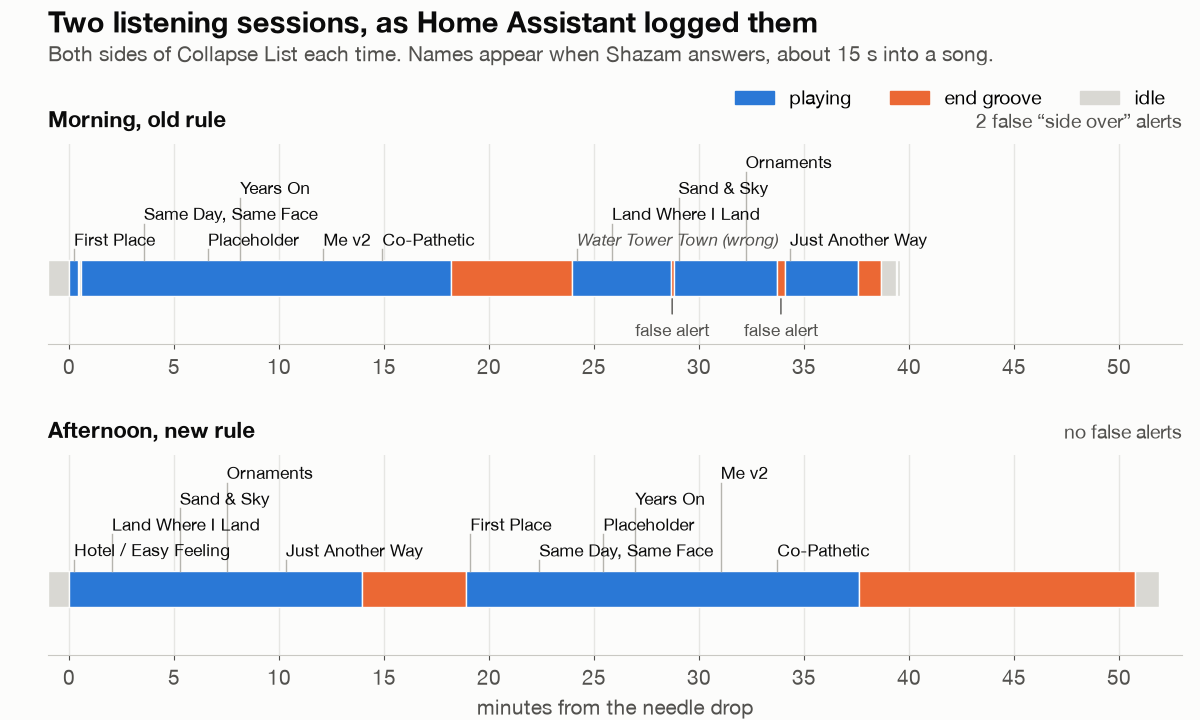
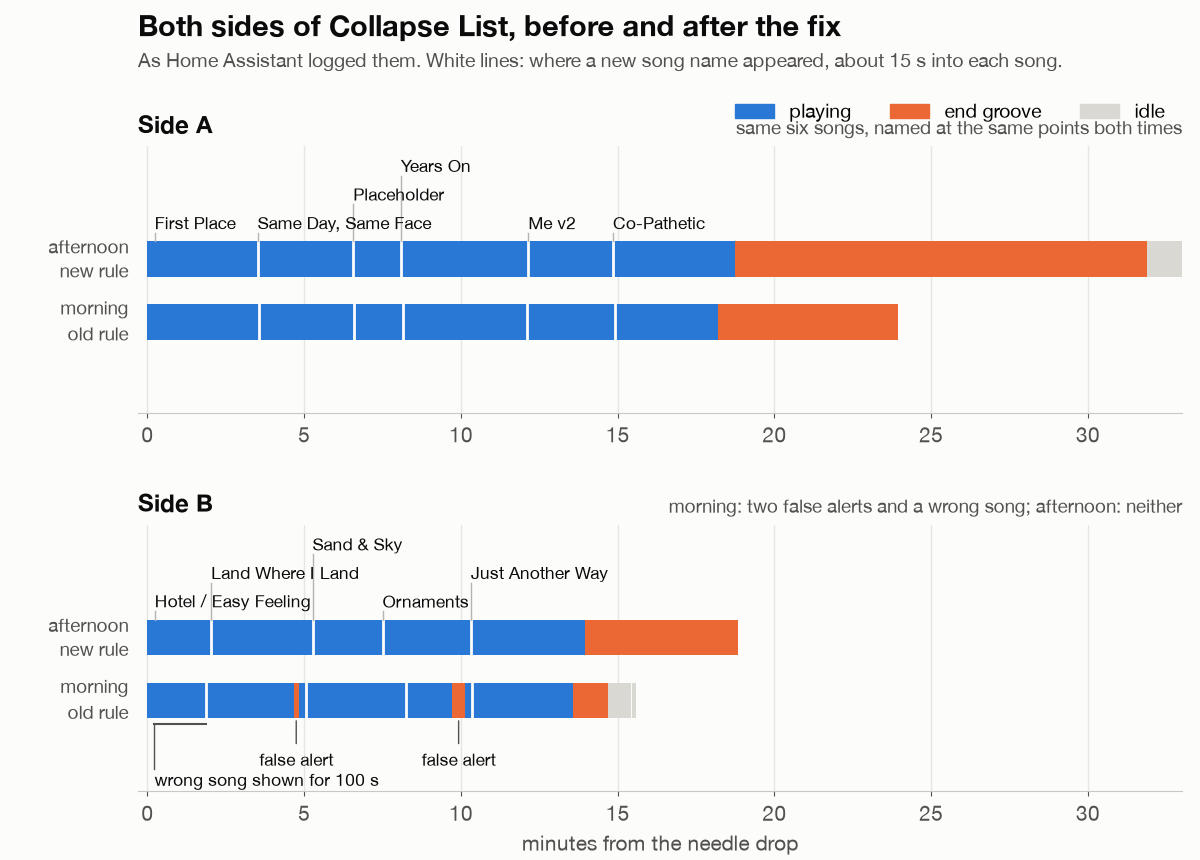
Turntable post: plainer groove-test section and figure, sides lined up in the timeline, the trade-off in my words

diff --git a/content/posts/spare-pi-listens-to-my-turntable/index.md b/content/posts/spare-pi-listens-to-my-turntable/index.md
@@ -56,13 +56,13 @@ Loudness gets you most of the way. Here's what the deck reads at the Pi, as RMS 
 | The end groove | -37 to -58 |
 | Arm up | -85 to -94 |
 
-Music against arm up is easy. A quiet passage against the end groove isn't: they overlap. The end groove does have two tells, and both come from the platter. One revolution at 33⅓ rpm takes 60 / 33.33 = 1.8 seconds (1.333 at 45). The groove usually clicks once per revolution, and its audio repeats almost exactly, because the stylus keeps going around the same circle. Claude turned each tell into a test. Neither one is an FFT: the platter only has two speeds, so it's enough to try shifts near those two periods and see which one lines up.
+Music against arm up is easy. A quiet passage against the end groove isn't: they overlap. The end groove does have two tells, both tied to the platter. At 33⅓ rpm one revolution takes 1.8 seconds (1.333 at 45). The groove usually clicks once per revolution, and its audio repeats almost exactly, because the stylus keeps going around the same circle. Claude turned each tell into a test.
 
-**The click test.** Every 0.1 seconds the listener keeps the loudest sample, so a stretch of quiet becomes a short list of peaks. It subtracts the median so only the clicks stick out, multiplies the list by a copy of itself shifted by 1.0, 1.1 and so on up to 2.1 seconds, and adds up each product (an autocorrelation). If the clicks come every 1.8 seconds, the 1.8-second shift lines each click up with the next one and scores far above the rest. The test fires when the best shift is within 8% of 1.8 or 1.333 seconds, scores at least 1.6 times the median, and does it on two checks in a row.
+**The click test** takes the loudness of the quiet stretch every 0.1 seconds and checks how well it lines up with itself shifted by 1.0 to 2.1 seconds (an autocorrelation). Clicks every 1.8 seconds make the 1.8-second shift stand out. It fires when the best shift is near 1.8 or 1.333 seconds and scores at least 1.6 times the median shift.
 
 That found the clicks in a recording of the first record's end. Then I went to bed with a different record on. That one ended in a locked groove with music in it, a short loop that just keeps playing, so the listener counted it as music until I stopped it the next morning, 6.5 hours later. Those hours are on the stylus counter, and they're real wear.
 
-**The repeat test.** So Claude added a test on the audio itself: the last revolution, downsampled to 4,410 samples a second (7,938 samples at 33⅓), against the revolution before it. It's a normalized correlation: multiply the two sample by sample, add it up, and divide by the energy of each, so 1.0 means identical and 0 means unrelated, at any volume. The platter is never exactly at 33.33 rpm, so it tries every shift within 1% of a revolution and keeps the best:
+**The repeat test** compares the audio itself: the last revolution against the one before it, as a correlation (Pearson's r over about 7,900 samples), where 1.0 means the same waveform at any volume and 0 means unrelated. The platter is never exactly at 33.33 rpm, so it tries every shift within 1% of a revolution, one sample at a time, and keeps the best:
 
 ```python
 # The last revolution of audio against the one before it, at 4,410 samples/s.
@@ -75,21 +75,21 @@ for lag in range(-slack, slack + 1):
     corr = np.dot(last, prev) / np.sqrt(np.dot(last, last) * np.dot(prev, prev))
 ```
 
-Here are both tests, run the way the listener runs them, on Sunday's recordings:
+Both tests, run the way the listener runs them, on Sunday's recordings:
 
-![Three panels. Top, the click test: the end groove's score peaks at a 1.8 second shift at 2.8 times the median, while a quiet stretch of music ripples above the 1.6 line at 1.1, 1.3 and 1.5 seconds, with the 1.3 second peak inside the 45 rpm window. Middle, the repeat test across shifts within 1 percent: the end groove reaches 0.94 in a broad hump, music stays near zero. Bottom, a few samples either side of the best shift: the end groove stays at 0.94, a loop of music drops from 1.00 to 0.33 one sample off.](figs/groove-tests.png)
+![Two panels. Top, the click test: the end groove's score peaks at a 1.8 second shift at 2.8 times the median, while a quiet stretch of music ripples above the 1.6 line, with its 1.3 second peak inside the 45 rpm window. Bottom, the repeat test across shifts within 1 percent: the end groove reaches 0.94 in a broad hump, music stays near zero.](figs/groove-tests.png)
 
-The top panel is the click test on the end groove and on a stretch of music turned down 26 dB to fake a quiet passage. The end groove peaks at 1.8 seconds, 2.8 times the median, as planned. The quiet music ripples with its beat, and one ripple lands at 1.3 seconds, inside the 45 rpm window, at 1.9 times the median. That's a false "side over", with a platter speed of 60 / 1.3 = 46 rpm. The middle panel is the repeat test on the same audio: 0.94 for the end groove, 0.07 at best for the music.
+In the click test (top), the end groove peaks at 1.8 seconds as planned. A stretch of music turned down 26 dB, to fake a quiet passage, has a score that ripples, and one ripple lands at 1.3 seconds, inside the 45 rpm window: a false "side over", and a platter speed of 60 / 1.3 = 46 rpm. The repeat test (bottom) has no such problem with this audio: 0.94 for the end groove, under 0.1 for the music.
 
-The bottom panel is why the search moves one sample at a time. On the quiet end groove the score hardly changes when the shift is a few samples off. On a loop of music, like the one that ran all night, it's 1.00 at the right shift and 0.33 one sample off. Claude's first version stepped a few samples at a time and only reached 0.45 on a test loop. The shift that wins also gives the platter speed to a sample, which is how Home Assistant knows the deck runs at 33.33 rpm.
+The one-sample steps matter for a loop of music, where the right shift can fall between coarser steps. On loops cut from Sunday's recording at 33.36 rpm, checking every fourth sample scored as low as 0.20; checking every sample found 0.91 to 0.98. The shift that wins also gives the platter speed, which is how Home Assistant knows the deck runs at 33.33 rpm.
 
 ## The test that found the real bug
 
 On Monday morning I played Novo Amor's Collapse List, both sides, to test the whole chain on one record. Side A worked: every song named, the push about 10 seconds after the music stopped, the 5-minute reminder on time.
 
-Side B sent me two "Side's over" pushes in the middle of the side, both during quiet stretches between songs. The click test was firing on music. Nothing records the audio, so I can't replay those exact moments, but my guess is what the fake quiet stretch above shows: a soft beat makes the score ripple, and a ripple lands in one of the windows. The click period was also how it read the platter at 46 rpm at the end of side A.
+Side B sent me two "Side's over" pushes in the middle of the side, both during quiet stretches between songs. The click test was firing on music. Nothing records the audio, so I can't replay those exact moments, but my guess is what the fake quiet stretch above shows: the score ripples, and a ripple lands in one of the windows. The click period was also how it read the platter at 46 rpm at the end of side A.
 
-What I told Claude: I'm fine with it showing nothing in a gap between songs. It shouldn't tell me the side is over, and be that confident about it, when it isn't true.
+The trade-off I chose: showing nothing in a gap between songs is fine. Telling me the side is over, that confidently, when it isn't, is not.
 
 So the clicks alone no longer end a side. The audio also has to repeat once per revolution for 3 seconds, and the platter speed now comes only from the repeat test. The rules now:
 
@@ -110,9 +110,9 @@ Claude checked the change against Sunday's recordings on the Pi before installin
 | Music with 25 s turned down 26 dB, as a fake quiet stretch | "Side over" at 31 s, back to playing at 48 s | Playing throughout |
 | The real end of Sunday's first record | End groove at 114 s | End groove at 114 s |
 
-Then I played both sides again and let each one run into the end groove. Here's what Home Assistant logged for both runs:
+Then I played both sides again and let each one run into the end groove. Here's each side from both runs, lined up at the needle drop:
 
-![Two timelines on one minutes scale. Morning, old rule: playing, the end groove after side A, the flip, two brief false end-groove slivers in the middle of side B, the real end, then idle. Songs are labelled where Shazam named them, including a wrong match, Water Tower Town. Afternoon, new rule: playing, end groove, flip, playing, a long end groove, then idle, with every song named and no false alerts.](figs/sessions.png)
+![Two panels, Side A and Side B, each with the afternoon run (new rule) above the morning run (old rule), lined up at the needle drop. Side A: the same six songs change at the same points in both runs. Side B: the morning bar has two brief false end-groove alerts mid-side and a wrong song shown for the first 100 seconds; the afternoon bar has neither.](figs/sessions.png)
 
 | | Old rule (morning) | New rule (afternoon) |
 |---|---|---|
@@ -147,4 +147,4 @@ The first "Side's over" push never arrived. Every Home Assistant push to my phon
 
 ---
 
-*[How this was built](/how-i-work/): Claude Code wrote the listener, the Home Assistant entities, automations and dashboard card, and the monitor test page, analyzed the recordings and Home Assistant's history, and did the installs over SSH. I picked the project and what it had to do (a wind-down for records at night, stylus hours, knowing what's playing; not concert alerts or audio in other rooms), set up the Pi and the cabling, played the records, designed the end-to-end test, and called out what was wrong on the real deck, including the "Side's over" push during a quiet song that became the rule: never say a side is over unless it's sure. Tested: both sides of Collapse List on the deck, twice (before and after the fix), replays of Sunday's recordings on the Pi, and the wind-down on Sunday night. Not tested: 45 rpm records, a record Shazam doesn't know, IR (no LEDs yet), and whether the status LEDs show through the case.*
+*[How this was built](/how-i-work/): Claude Code wrote the listener, the Home Assistant entities, automations and dashboard card, and the monitor test page, analyzed the recordings and Home Assistant's history, and did the installs over SSH. I picked the project and what it had to do (a wind-down for records at night, stylus hours, knowing what's playing; not concert alerts or audio in other rooms), set up the Pi and the cabling, played the records, designed the end-to-end test, and called out what was wrong on the real deck, including the "Side's over" push during a quiet song that became the rule: never say a side is over unless it's sure. Tested: both sides of Collapse List on the deck, twice (before and after the fix), replays of Sunday's recordings on the Pi, the wind-down on Sunday night, and the status LEDs. Not tested: 45 rpm records, a record Shazam doesn't know, a real locked groove with music in it (only loops cut from a recording), and IR (no LEDs yet).*
